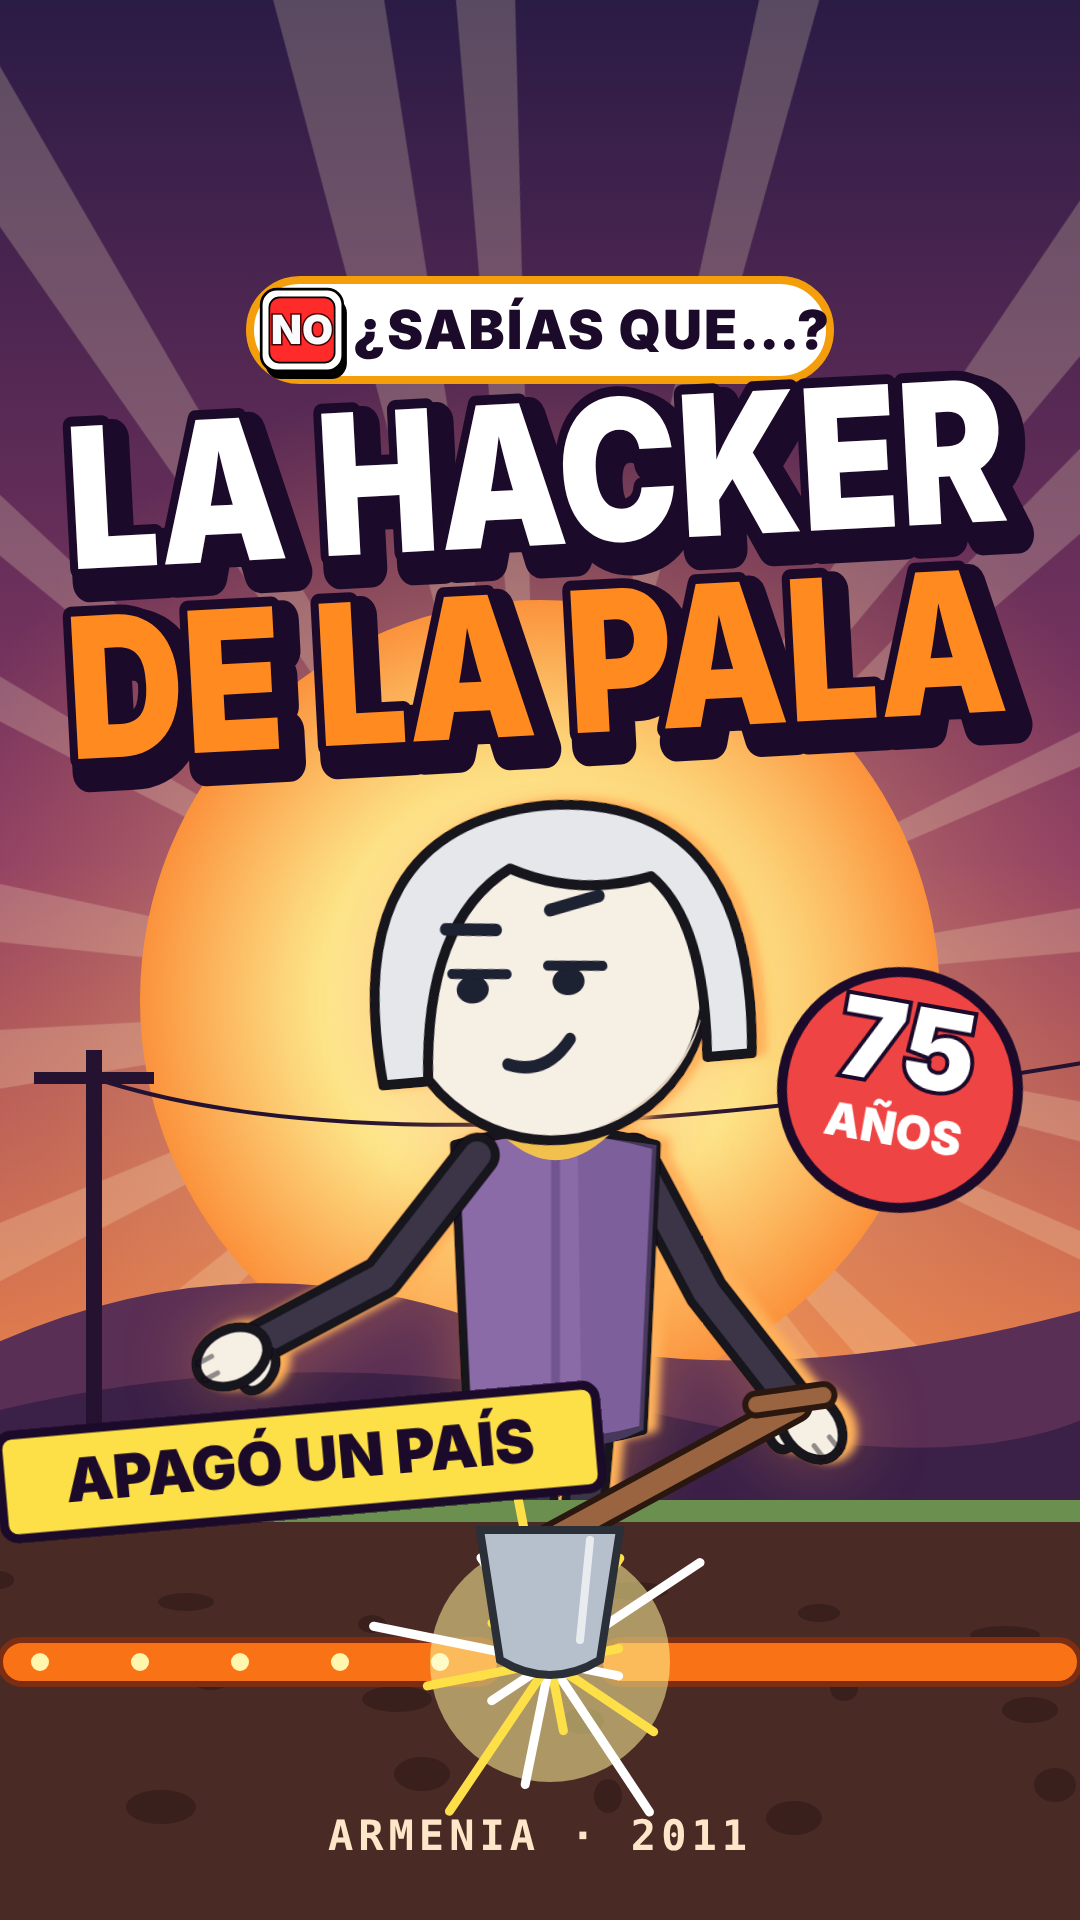
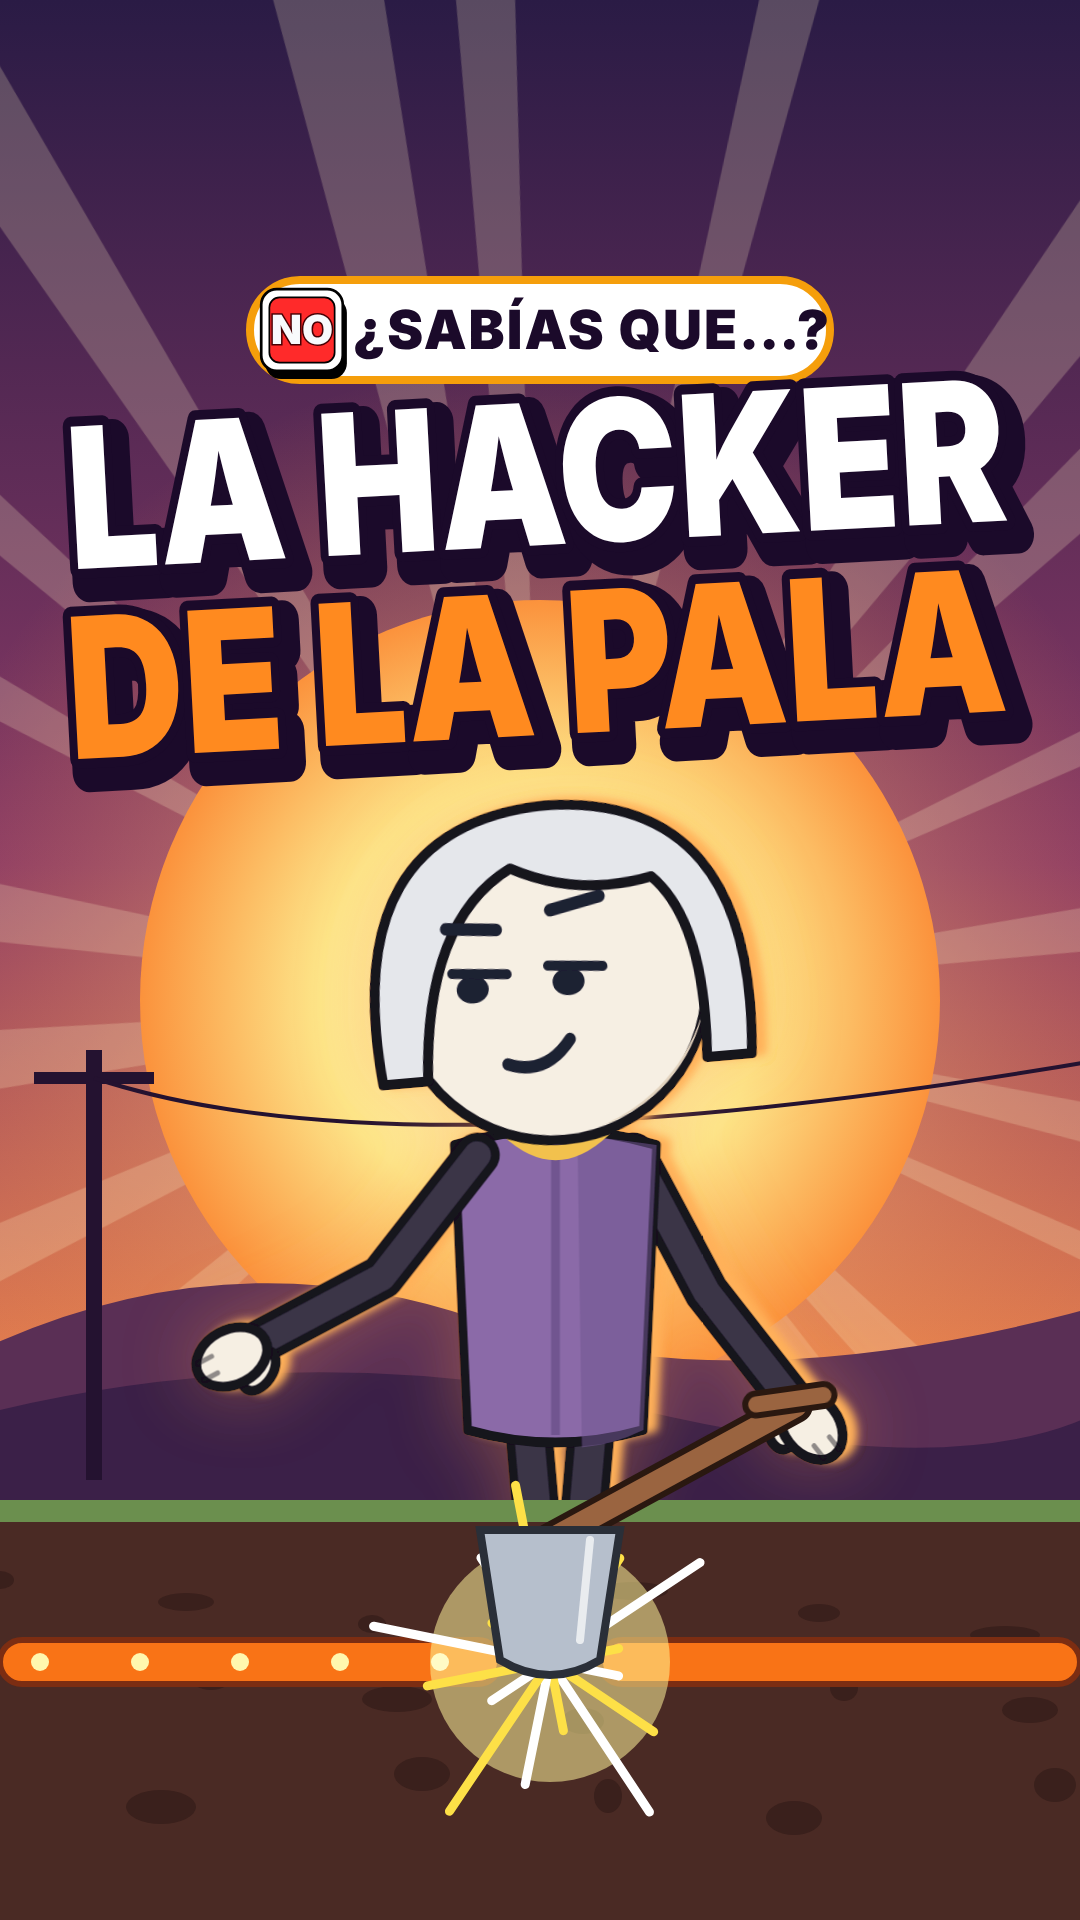
Abuela cover: only the pill and the nickname (drop 75 AÑOS, APAGÓ UN PAÍS, ARMENIA · 2011)
v1 kept as miniatura-sabias01-*-v1-4textos.png.

Claude-Session: https://claude.ai/code/session_01UvSALjBVpBVemw6p1kxsgc

diff --git a/what-if-studio/src/sabias01/Cover.tsx b/what-if-studio/src/sabias01/Cover.tsx
@@ -8,7 +8,8 @@ import { GRANNY } from './WhatIfShots';
 // Cover of "¿Sabías que…? #01, la hacker de la pala" (TikTok, Instagram, Shorts, Facebook). New, and different from the Fallo
 // covers: it is daylight-gold, not an alarm. A huge low sun with rays behind the grandma's face, the spade slanting across
 // the frame into the soil where the cut cable sparks, and the nickname set enormous in white and hot orange. Everything that
-// matters sits in the central square (y 420 to 1500); the pill and the strip live just outside it.
+// matters sits in the central square (y 420 to 1500); the pill lives just outside it. Only two pieces of text: the series pill
+// (small, identity) and the nickname (the hook). v1 had four more blocks competing with it.
 //   npx remotion still src/index.ts Sabias01Cover out/sabias01/portada.png
 const INK = '#1B0A2A';
 const POSE: Pose = { ...basePose, x: 560, y: 1425, scale: 2.5, yaw: -0.3, look: -0.5, headTilt: -5, expr: 'smug', armR: { a: 28, b: 10 }, armL: { a: 38, b: 24 } };
@@ -106,26 +107,7 @@ export const Sabias01Cover: React.FC = () => {
         {/* the nickname, enormous */}
         <Big y={545} size={196} fill="#FFFFFF" text="LA HACKER" width={940} rot={-3} />
         <Big y={735} size={196} fill="#FF8A1F" text="DE LA PALA" width={940} rot={-3} />
-        {/* stickers: her age, and the cost */}
-        <g transform="translate(900 1090) rotate(10)">
-          <circle r={118} fill="#EF4444" stroke={INK} strokeWidth={10} />
-          <text y={-6} textAnchor="middle" fontFamily={HEAVY} fontWeight={900} fontSize={110} fill="#FFFFFF" stroke={INK} strokeWidth={8} paintOrder="stroke">
-            75
-          </text>
-          <text y={56} textAnchor="middle" fontFamily={HEAVY} fontWeight={900} fontSize={46} fill="#FFFFFF">
-            AÑOS
-          </text>
-        </g>
-        <g transform="translate(300 1462) rotate(-5)">
-          <rect x={-300} y={-52} width={600} height={104} rx={14} fill="#FDE047" stroke={INK} strokeWidth={9} />
-          <text y={20} textAnchor="middle" fontFamily={HEAVY} fontWeight={900} fontSize={60} fill={INK}>
-            APAGÓ UN PAÍS
-          </text>
-        </g>
-        {/* the year and place, small, under the nickname */}
-        <text x={540} y={1850} textAnchor="middle" fontFamily="'DejaVu Sans Mono', monospace" fontWeight={700} fontSize={42} fill="#FDE7C8" letterSpacing={5}>
-          ARMENIA · 2011
-        </text>
+        {/* ONE hook only: the nickname. No age sticker, no cost strip, no place and year: they competed with it. */}
       </svg>
     </AbsoluteFill>
   );
